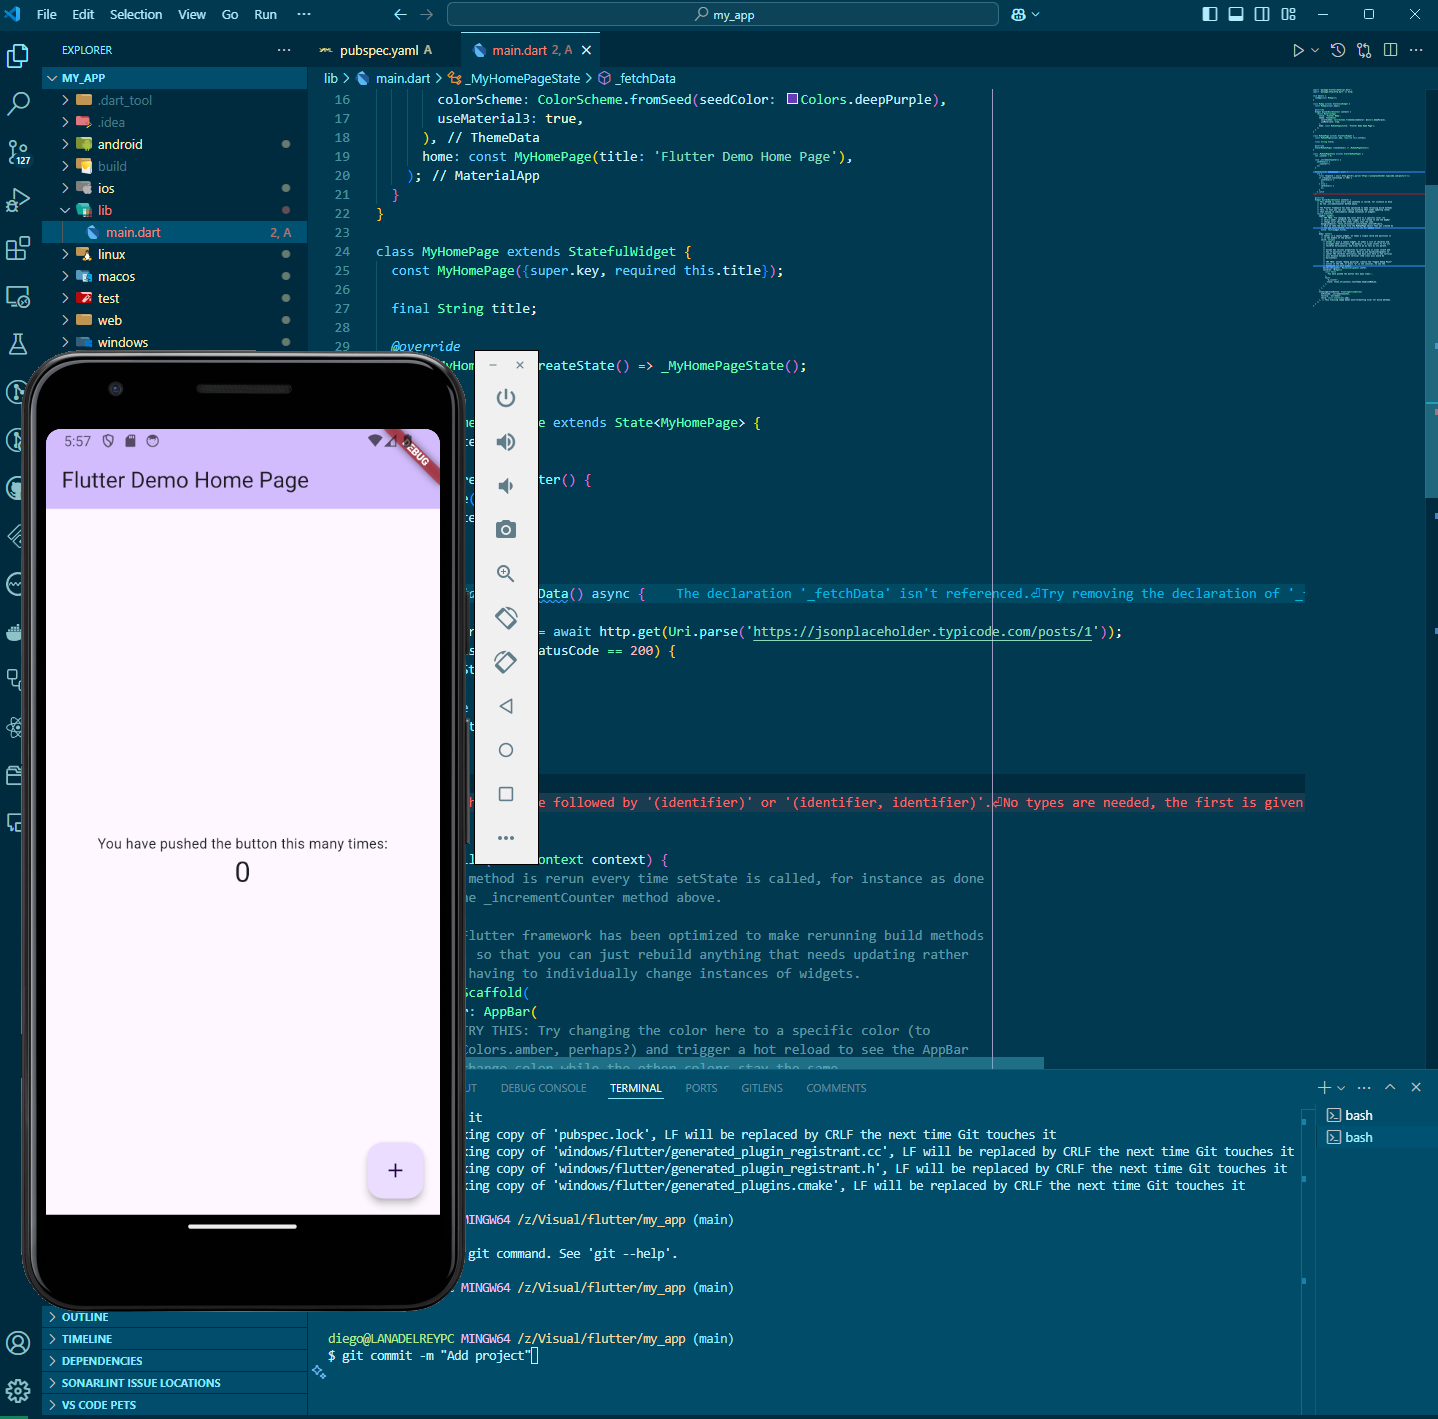
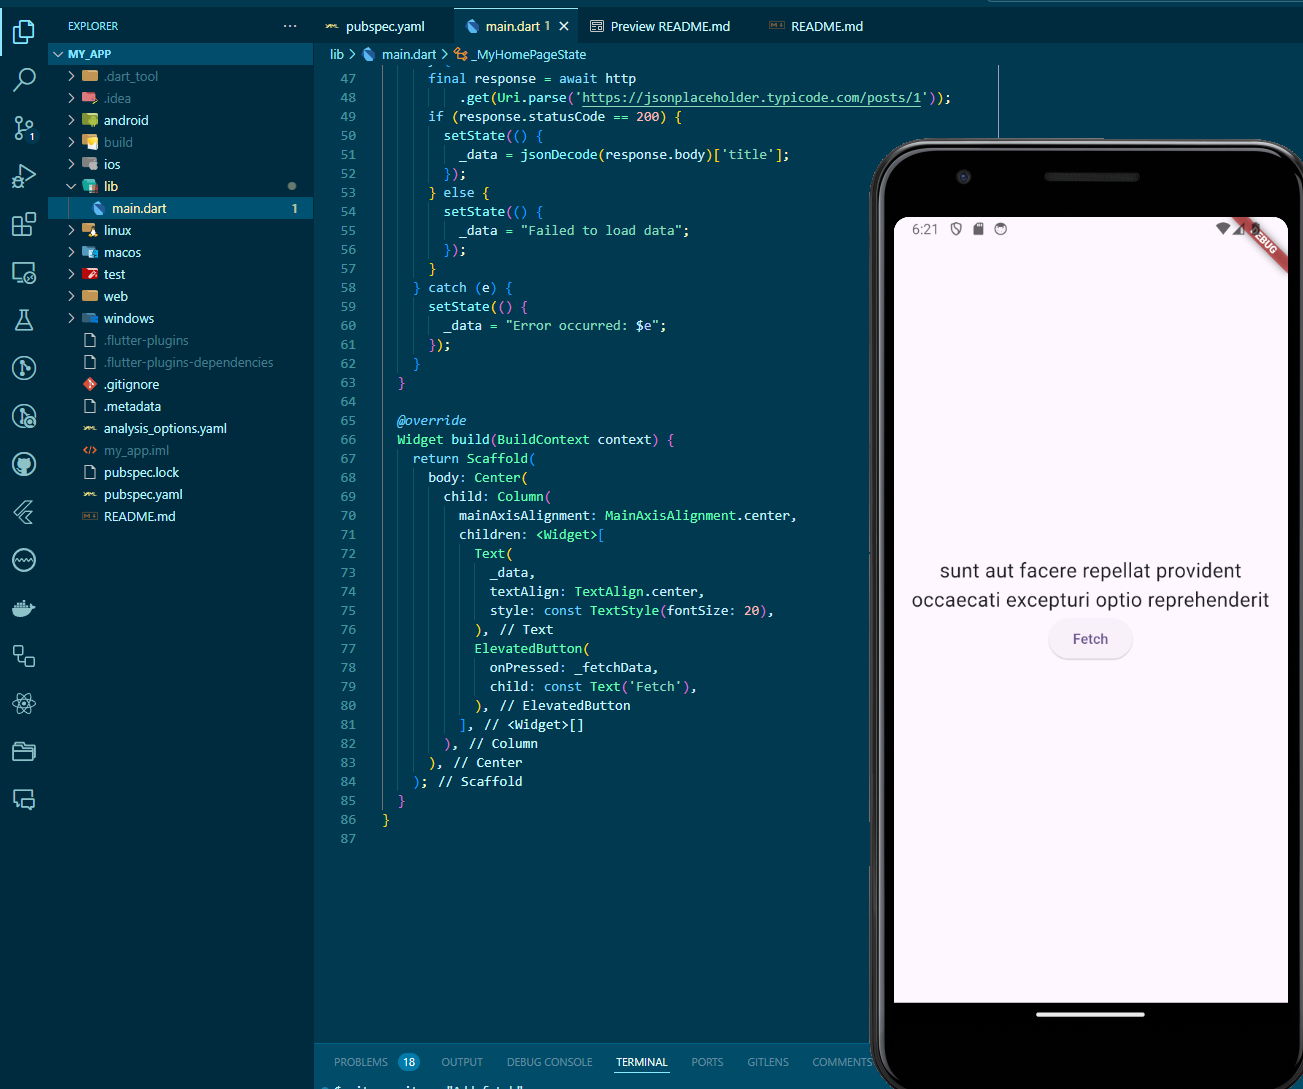
Add fetch

diff --git a/lib/main.dart b/lib/main.dart
@@ -1,3 +1,5 @@
+import 'dart:convert';
+
 import 'package:flutter/material.dart';
 import 'package:http/http.dart' as http;
 
@@ -62,56 +64,23 @@ class _MyHomePageState extends State<MyHomePage> {
 
   @override
   Widget build(BuildContext context) {
-    // This method is rerun every time setState is called, for instance as done
-    // by the _incrementCounter method above.
-    //
-    // The Flutter framework has been optimized to make rerunning build methods
-    // fast, so that you can just rebuild anything that needs updating rather
-    // than having to individually change instances of widgets.
     return Scaffold(
-      appBar: AppBar(
-        // TRY THIS: Try changing the color here to a specific color (to
-        // Colors.amber, perhaps?) and trigger a hot reload to see the AppBar
-        // change color while the other colors stay the same.
-        backgroundColor: Theme.of(context).colorScheme.inversePrimary,
-        // Here we take the value from the MyHomePage object that was created by
-        // the App.build method, and use it to set our appbar title.
-        title: Text(widget.title),
-      ),
       body: Center(
-        // Center is a layout widget. It takes a single child and positions it
-        // in the middle of the parent.
         child: Column(
-          // Column is also a layout widget. It takes a list of children and
-          // arranges them vertically. By default, it sizes itself to fit its
-          // children horizontally, and tries to be as tall as its parent.
-          //
-          // Column has various properties to control how it sizes itself and
-          // how it positions its children. Here we use mainAxisAlignment to
-          // center the children vertically; the main axis here is the vertical
-          // axis because Columns are vertical (the cross axis would be
-          // horizontal).
-          //
-          // TRY THIS: Invoke "debug painting" (choose the "Toggle Debug Paint"
-          // action in the IDE, or press "p" in the console), to see the
-          // wireframe for each widget.
           mainAxisAlignment: MainAxisAlignment.center,
           children: <Widget>[
-            const Text(
-              'You have pushed the button this many times:',
-            ),
             Text(
-              '$_counter',
-              style: Theme.of(context).textTheme.headlineMedium,
+              _data,
+              textAlign: TextAlign.center,
+              style: const TextStyle(fontSize: 20),
+            ),
+            ElevatedButton(
+              onPressed: _fetchData,
+              child: const Text('Fetch'),
             ),
           ],
         ),
       ),
-      floatingActionButton: FloatingActionButton(
-        onPressed: _incrementCounter,
-        tooltip: 'Increment',
-        child: const Icon(Icons.add),
-      ), // This trailing comma makes auto-formatting nicer for build methods.
     );
   }
 }
